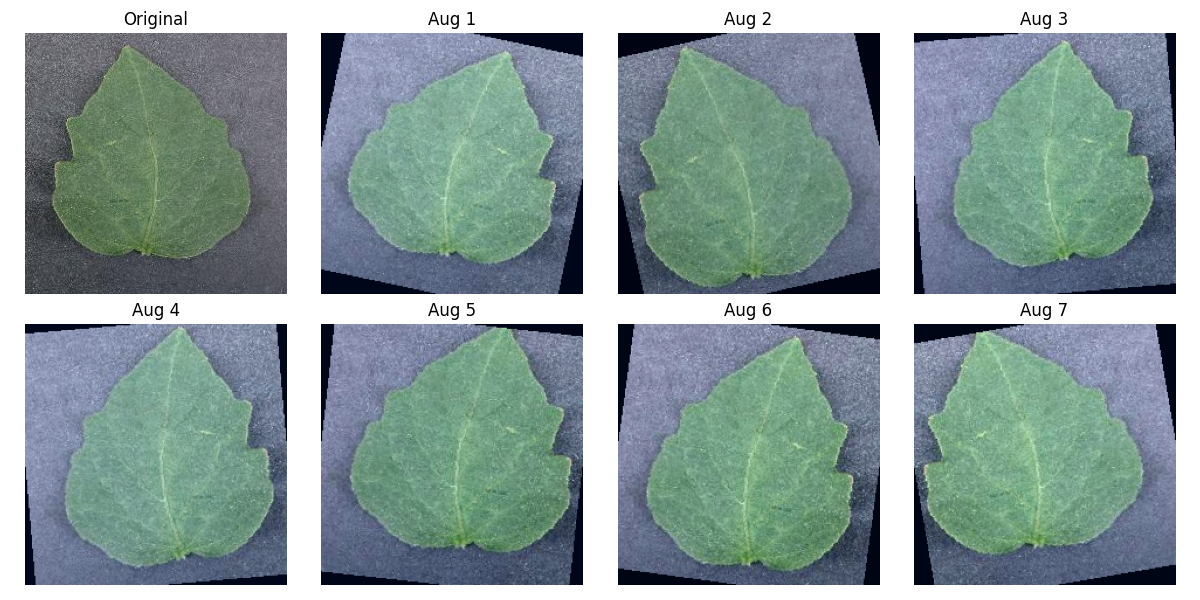
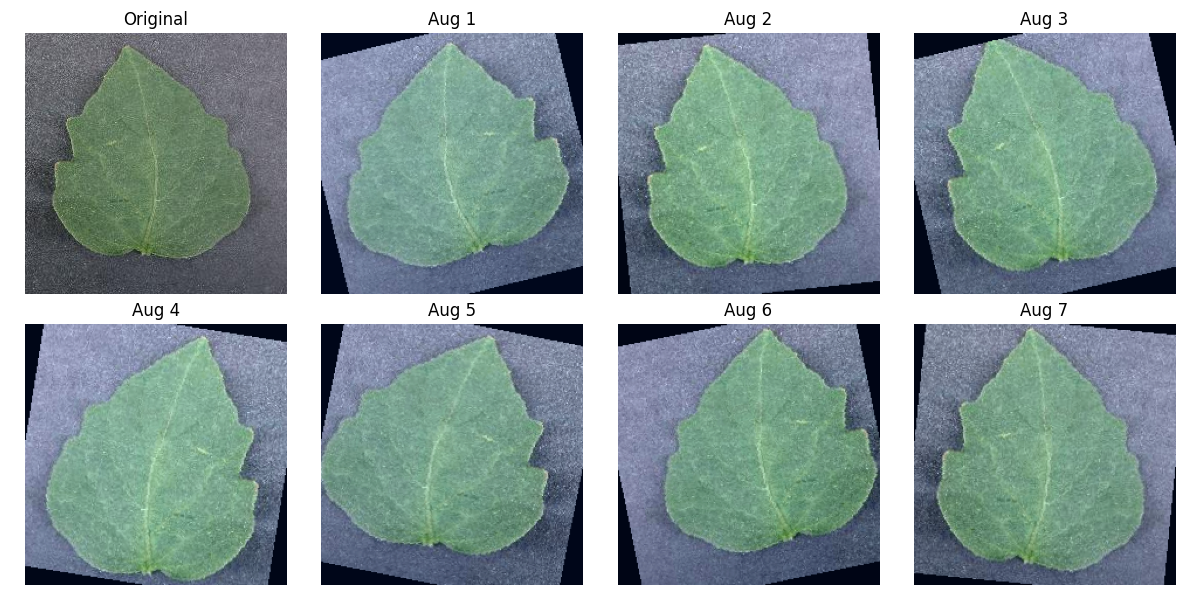
evaluation added

Changed region(s): [[0.0, 0.54, 0.9867, 0.99], [0.2467, 0.03, 0.9867, 0.51]]

diff --git a/src/evaluate.py b/src/evaluate.py
@@ -1,0 +1,183 @@
+import os
+import torch
+import numpy as np
+import matplotlib.pyplot as plt
+
+from torch import nn
+from torchvision import models
+
+from sklearn.metrics import (
+    confusion_matrix,
+    classification_report,
+    ConfusionMatrixDisplay
+)
+
+from dataset_loader import val_loader, CLASS_NAMES
+
+# -----------------------------
+# Device
+# -----------------------------
+device = torch.device(
+    "cuda" if torch.cuda.is_available() else "cpu"
+)
+
+# -----------------------------
+# Recreate ResNet18 Architecture
+# -----------------------------
+weights = models.ResNet18_Weights.IMAGENET1K_V1
+
+model = models.resnet18(weights=weights)
+
+in_features = model.fc.in_features
+model.fc = nn.Linear(in_features, 4)
+
+model = model.to(device)
+
+# -----------------------------
+# Load Trained Weights
+# -----------------------------
+model.load_state_dict(
+    torch.load(
+        "models/resnet18_best.pth",
+        map_location=device
+    )
+)
+
+model.eval()
+
+# -----------------------------
+# Storage
+# -----------------------------
+all_preds = []
+all_labels = []
+
+os.makedirs("reports/errors", exist_ok=True)
+
+error_count = 0
+
+# -----------------------------
+# Evaluation Loop
+# -----------------------------
+with torch.no_grad():
+
+    for images, labels in val_loader:
+
+        images = images.to(device)
+        labels = labels.to(device)
+
+        outputs = model(images)
+
+        preds = torch.argmax(outputs, dim=1)
+
+        all_preds.extend(
+            preds.cpu().numpy()
+        )
+
+        all_labels.extend(
+            labels.cpu().numpy()
+        )
+
+        # Save misclassified samples
+        for i in range(len(images)):
+
+            if preds[i] != labels[i]:
+
+                if error_count < 10:
+
+                    img = images[i].cpu()
+
+                    mean = torch.tensor(
+                        [0.485, 0.456, 0.406]
+                    ).view(3, 1, 1)
+
+                    std = torch.tensor(
+                        [0.229, 0.224, 0.225]
+                    ).view(3, 1, 1)
+
+                    img = img * std + mean
+
+                    img = (
+                        img.permute(1, 2, 0)
+                        .numpy()
+                    )
+
+                    img = np.clip(img, 0, 1)
+
+                    true_label = CLASS_NAMES[
+                        labels[i].item()
+                    ]
+
+                    pred_label = CLASS_NAMES[
+                        preds[i].item()
+                    ]
+
+                    plt.figure(figsize=(4, 4))
+
+                    plt.imshow(img)
+
+                    plt.title(
+                        f"True: {true_label}\n"
+                        f"Pred: {pred_label}"
+                    )
+
+                    plt.axis("off")
+
+                    plt.savefig(
+                        f"reports/errors/error_{error_count}.png",
+                        bbox_inches="tight"
+                    )
+
+                    plt.close()
+
+                    error_count += 1
+
+# -----------------------------
+# Confusion Matrix
+# -----------------------------
+cm = confusion_matrix(
+    all_labels,
+    all_preds
+)
+
+disp = ConfusionMatrixDisplay(
+    confusion_matrix=cm,
+    display_labels=CLASS_NAMES
+)
+
+plt.figure(figsize=(8, 6))
+
+disp.plot(
+    cmap="Blues",
+    values_format="d"
+)
+
+plt.title("Confusion Matrix")
+
+plt.savefig(
+    "reports/confusion_matrix.png",
+    bbox_inches="tight"
+)
+
+plt.close()
+
+# -----------------------------
+# Classification Report
+# -----------------------------
+report = classification_report(
+    all_labels,
+    all_preds,
+    target_names=CLASS_NAMES
+)
+
+print("\nClassification Report:\n")
+print(report)
+
+with open(
+    "reports/classification_report.txt",
+    "w"
+) as f:
+    f.write(report)
+
+print(
+    "\nResults saved to reports/"
+)

diff --git a/src/model.py b/src/model.py
@@ -8,8 +8,8 @@ class LeafDiseaseCNN(nn.Module):
             nn.Conv2d(3, 32, 3, padding=1), nn.ReLU(), nn.MaxPool2d(2),
             nn.Conv2d(32, 64, 3, padding=1), nn.ReLU(), nn.MaxPool2d(2),
             nn.Conv2d(64, 128, 3, padding=1), nn.ReLU(), nn.MaxPool2d(2),
-            nn.Conv2d(128, 256, 3, padding=1), nn.ReLU(),
-            nn.AdaptiveAvgPool2d(1),
+               nn.AdaptiveAvgPool2d(1),  nn.Conv2d(128, 256, 3, padding=1), nn.ReLU(),
+       
         )
         self.classifier = nn.Sequential(
             nn.Flatten(),

diff --git a/reports/error_analysis.md b/reports/error_analysis.md
@@ -1,0 +1,53 @@
+# Error Analysis
+
+## Summary
+
+This error analysis report is based on the current evaluation run in `src/evaluate.py`.
+The model achieved:
+
+- Accuracy: 0.97
+- Macro average precision: 0.97
+- Macro average recall: 0.97
+- Macro average F1-score: 0.97
+
+## Class Performance
+
+- `Tomato___healthy`: precision 1.00, recall 1.00, F1-score 1.00
+- `Tomato___Early_blight`: precision 0.94, recall 0.94, F1-score 0.94
+- `Tomato___Late_blight`: precision 0.99, recall 0.96, F1-score 0.97
+- `Tomato___Leaf_Mold`: precision 0.94, recall 0.99, F1-score 0.97
+
+## Confusion Matrix
+
+The confusion matrix is saved as `reports/confusion_matrix.png`.
+This matrix should be reviewed to identify the specific class pairs that are most often confused.
+
+## Misclassified Samples
+
+The first 10 misclassified validation samples are saved as image files in `reports/errors/`:
+
+- `reports/errors/error_0.png`
+- `reports/errors/error_1.png`
+- `reports/errors/error_2.png`
+- `reports/errors/error_3.png`
+- `reports/errors/error_4.png`
+- `reports/errors/error_5.png`
+- `reports/errors/error_6.png`
+- `reports/errors/error_7.png`
+- `reports/errors/error_8.png`
+- `reports/errors/error_9.png`
+
+Each image includes the true and predicted label in the plot title.
+
+## Key Observations
+
+- The model performs perfectly on the healthy leaf class.
+- The most notable errors are likely in `Tomato___Early_blight` and `Tomato___Leaf_Mold`, since those classes have the lowest precision or recall.
+- `Tomato___Late_blight` has very high precision but slightly lower recall, suggesting some false negatives.
+
+## Recommended Next Steps
+
+1. Review `reports/confusion_matrix.png` for the exact confusion pairs.
+2. Inspect the saved misclassified images in `reports/errors/` to understand visual failure modes.
+3. Consider adding a more detailed error log in `src/evaluate.py` that records true label, predicted label, and image filename for all misclassifications.
+4. If misclassification patterns suggest inter-class similarity, consider additional augmentation or fine-tuning with a larger validation split.
